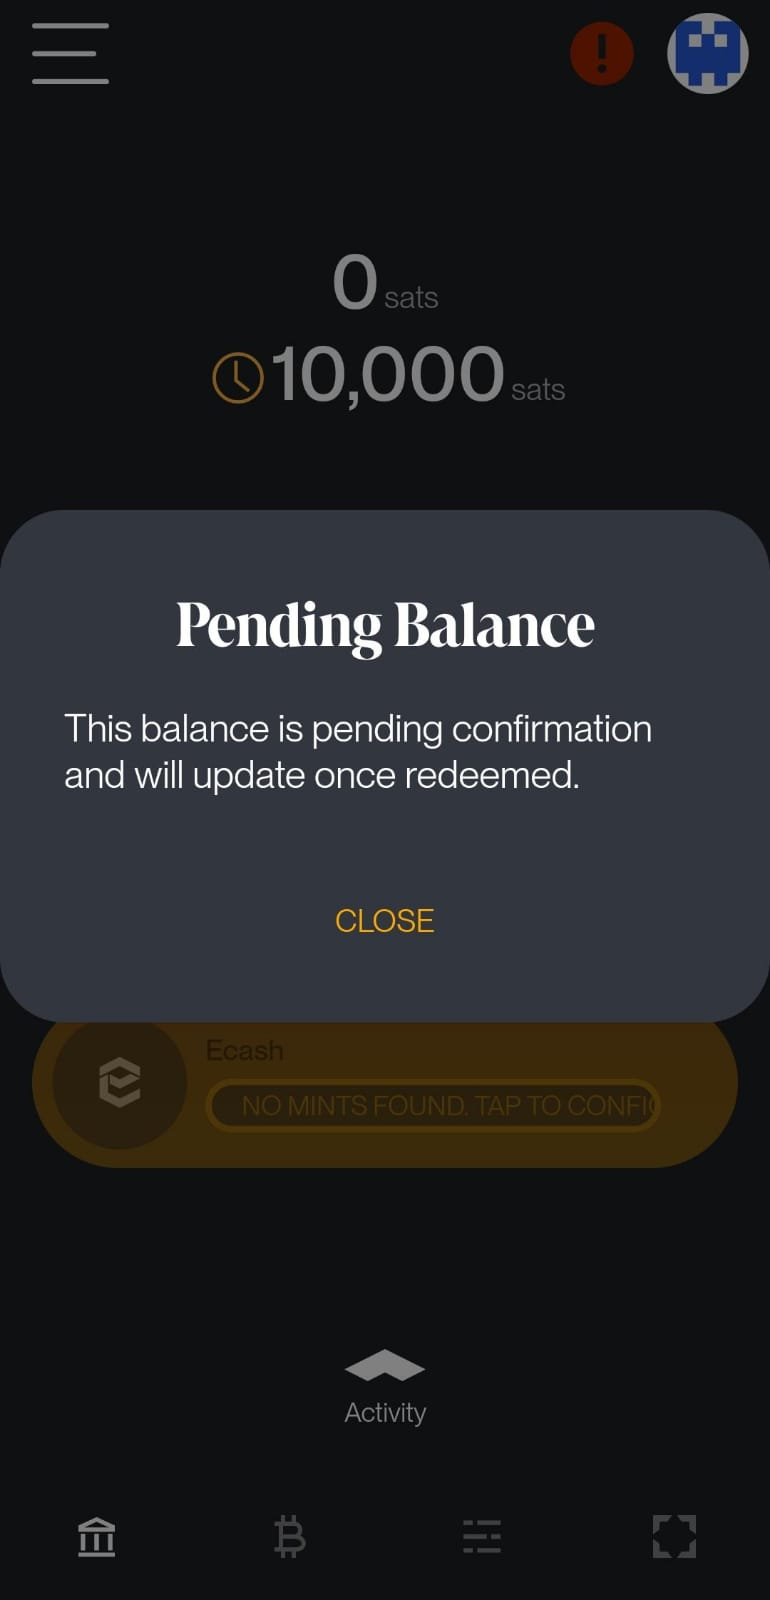
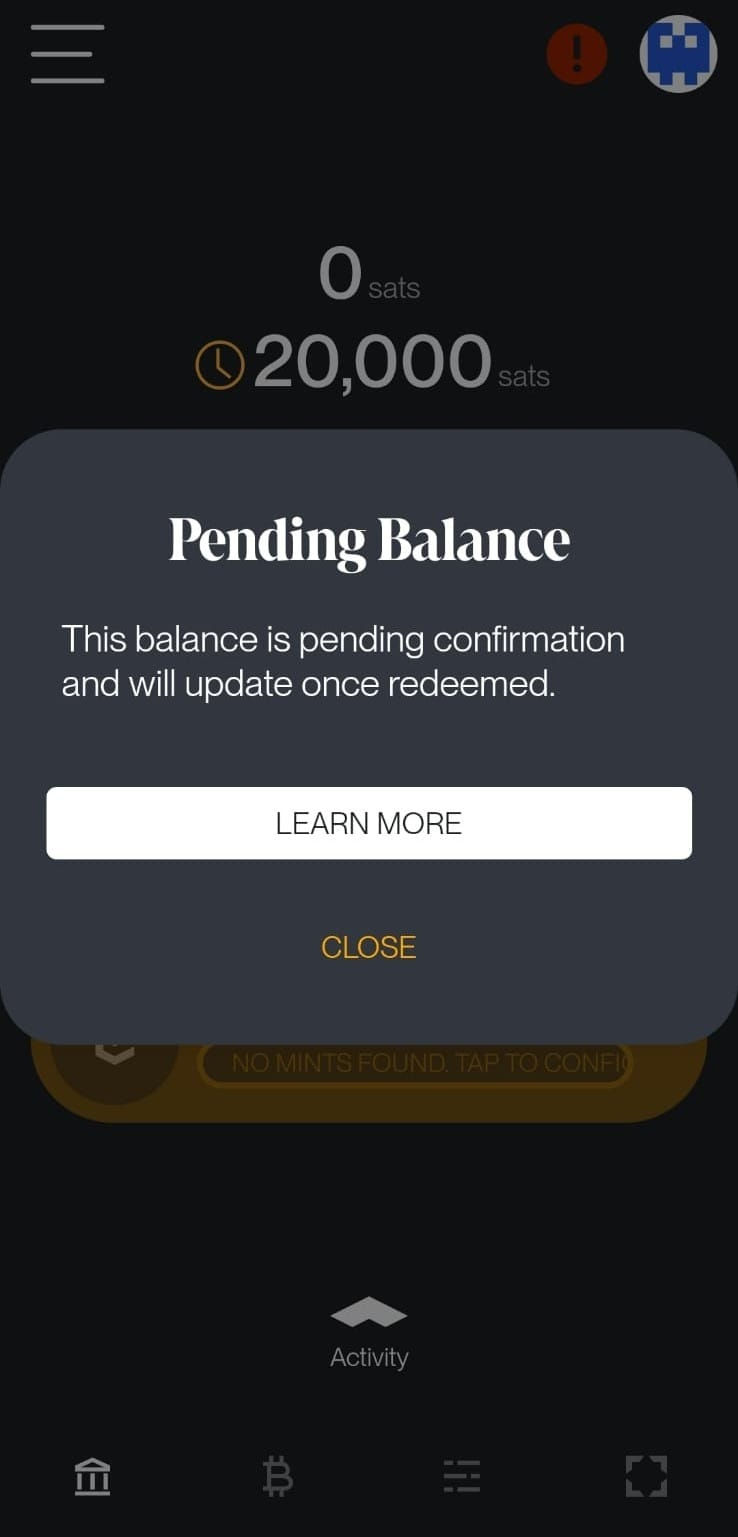
fix: update pending balances docs with confirmation times note and updated images

Changed region(s): [[0.0, 0.1561, 1.0, 0.6871], [0.8726, 0.0, 0.9661, 0.0625], [0.0312, 0.0, 0.1247, 0.0625]]

diff --git a/docs/for-users/using-zeus/pending-balances.md b/docs/for-users/using-zeus/pending-balances.md
@@ -31,7 +31,7 @@ When you tap the clock icon, you'll see: **"This balance is pending confirmation
 
 ### Confirmation Times
 
-- **First confirmation**: Usually within 10-20 minutes
+- **First confirmation**: Usually within 10-20 minutes (depends on network traffic and fees)
 - **Channel operations**: Require 6-8 confirmations (approximately 1-1.5 hours) before the channel is fully operational or closed
 
 Your on-chain balance updates once the transaction receives its first confirmation. For channel operations, the channel won't be usable (for opens) or funds won't be available (for closes) until the required confirmations are reached.
